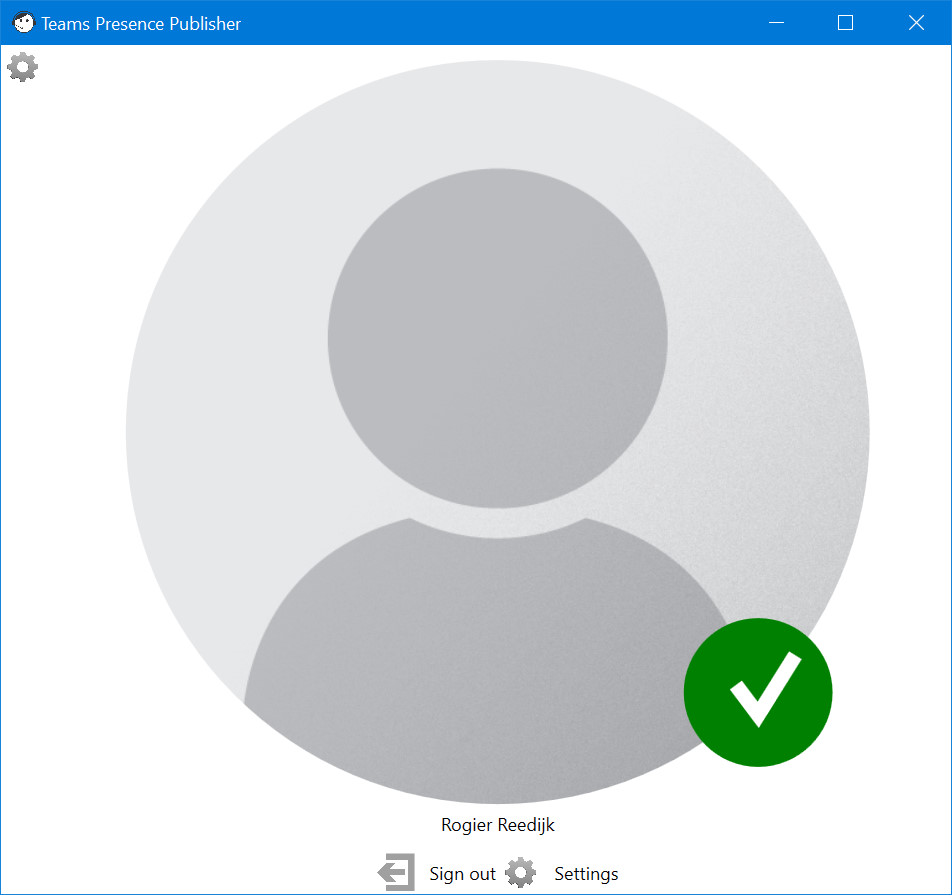
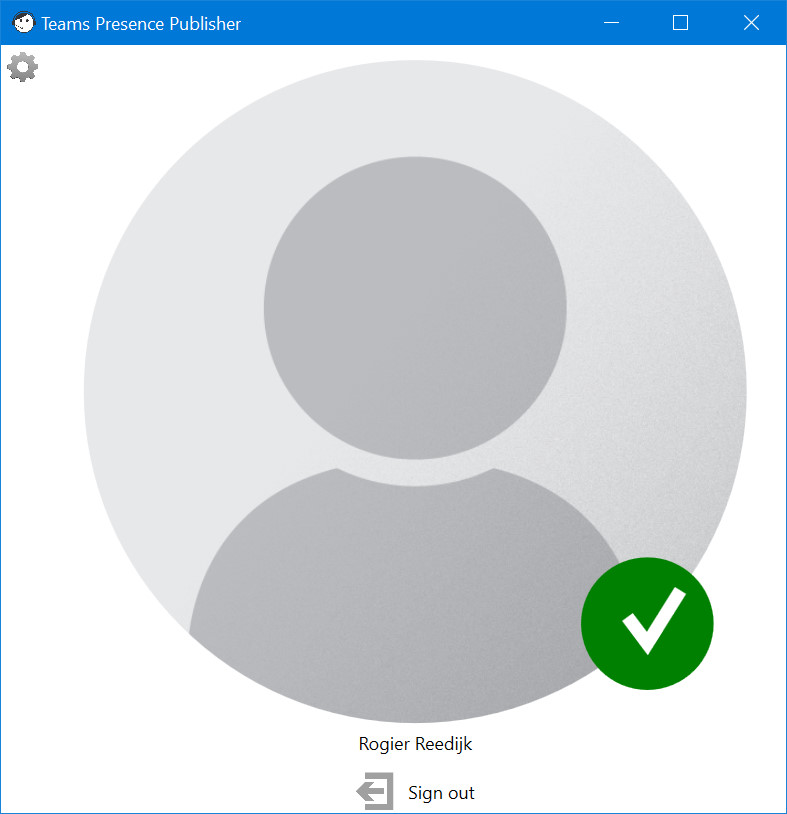
Combine settings tab and update screenshot to match

diff --git a/src/TeamsPresencePublisher/MainWindow.xaml b/src/TeamsPresencePublisher/MainWindow.xaml
@@ -20,7 +20,7 @@
         <StackPanel Orientation="Vertical" DockPanel.Dock="Left">
             <Expander ExpandDirection="Right" Style="{StaticResource ArrowlessExpanderTemplate}">
                 <Expander.Header>
-                    <Image Width="25" Source="assets\Settings.png"/>
+                    <Image Width="25" Source="assets\Settings.png" ToolTip="Settings" />
                 </Expander.Header>
                 <StackPanel Orientation="Vertical">
                     <Grid>
@@ -105,16 +105,6 @@
                         </Image.Source>
                     </Image>
                     <TextBlock VerticalAlignment="Center" Margin="10,0,0,0">Sign out</TextBlock>
-                </StackPanel>
-            </Button>
-            <Button Background="Transparent" BorderBrush="Transparent">
-                <StackPanel Orientation="Horizontal">
-                    <Image Height="25">
-                        <Image.Source>
-                            <BitmapImage UriSource="/Assets/Settings.png" />
-                        </Image.Source>
-                    </Image>
-                    <TextBlock VerticalAlignment="Center" Margin="10,0,0,0">Settings</TextBlock>
                 </StackPanel>
             </Button>
         </StackPanel>
